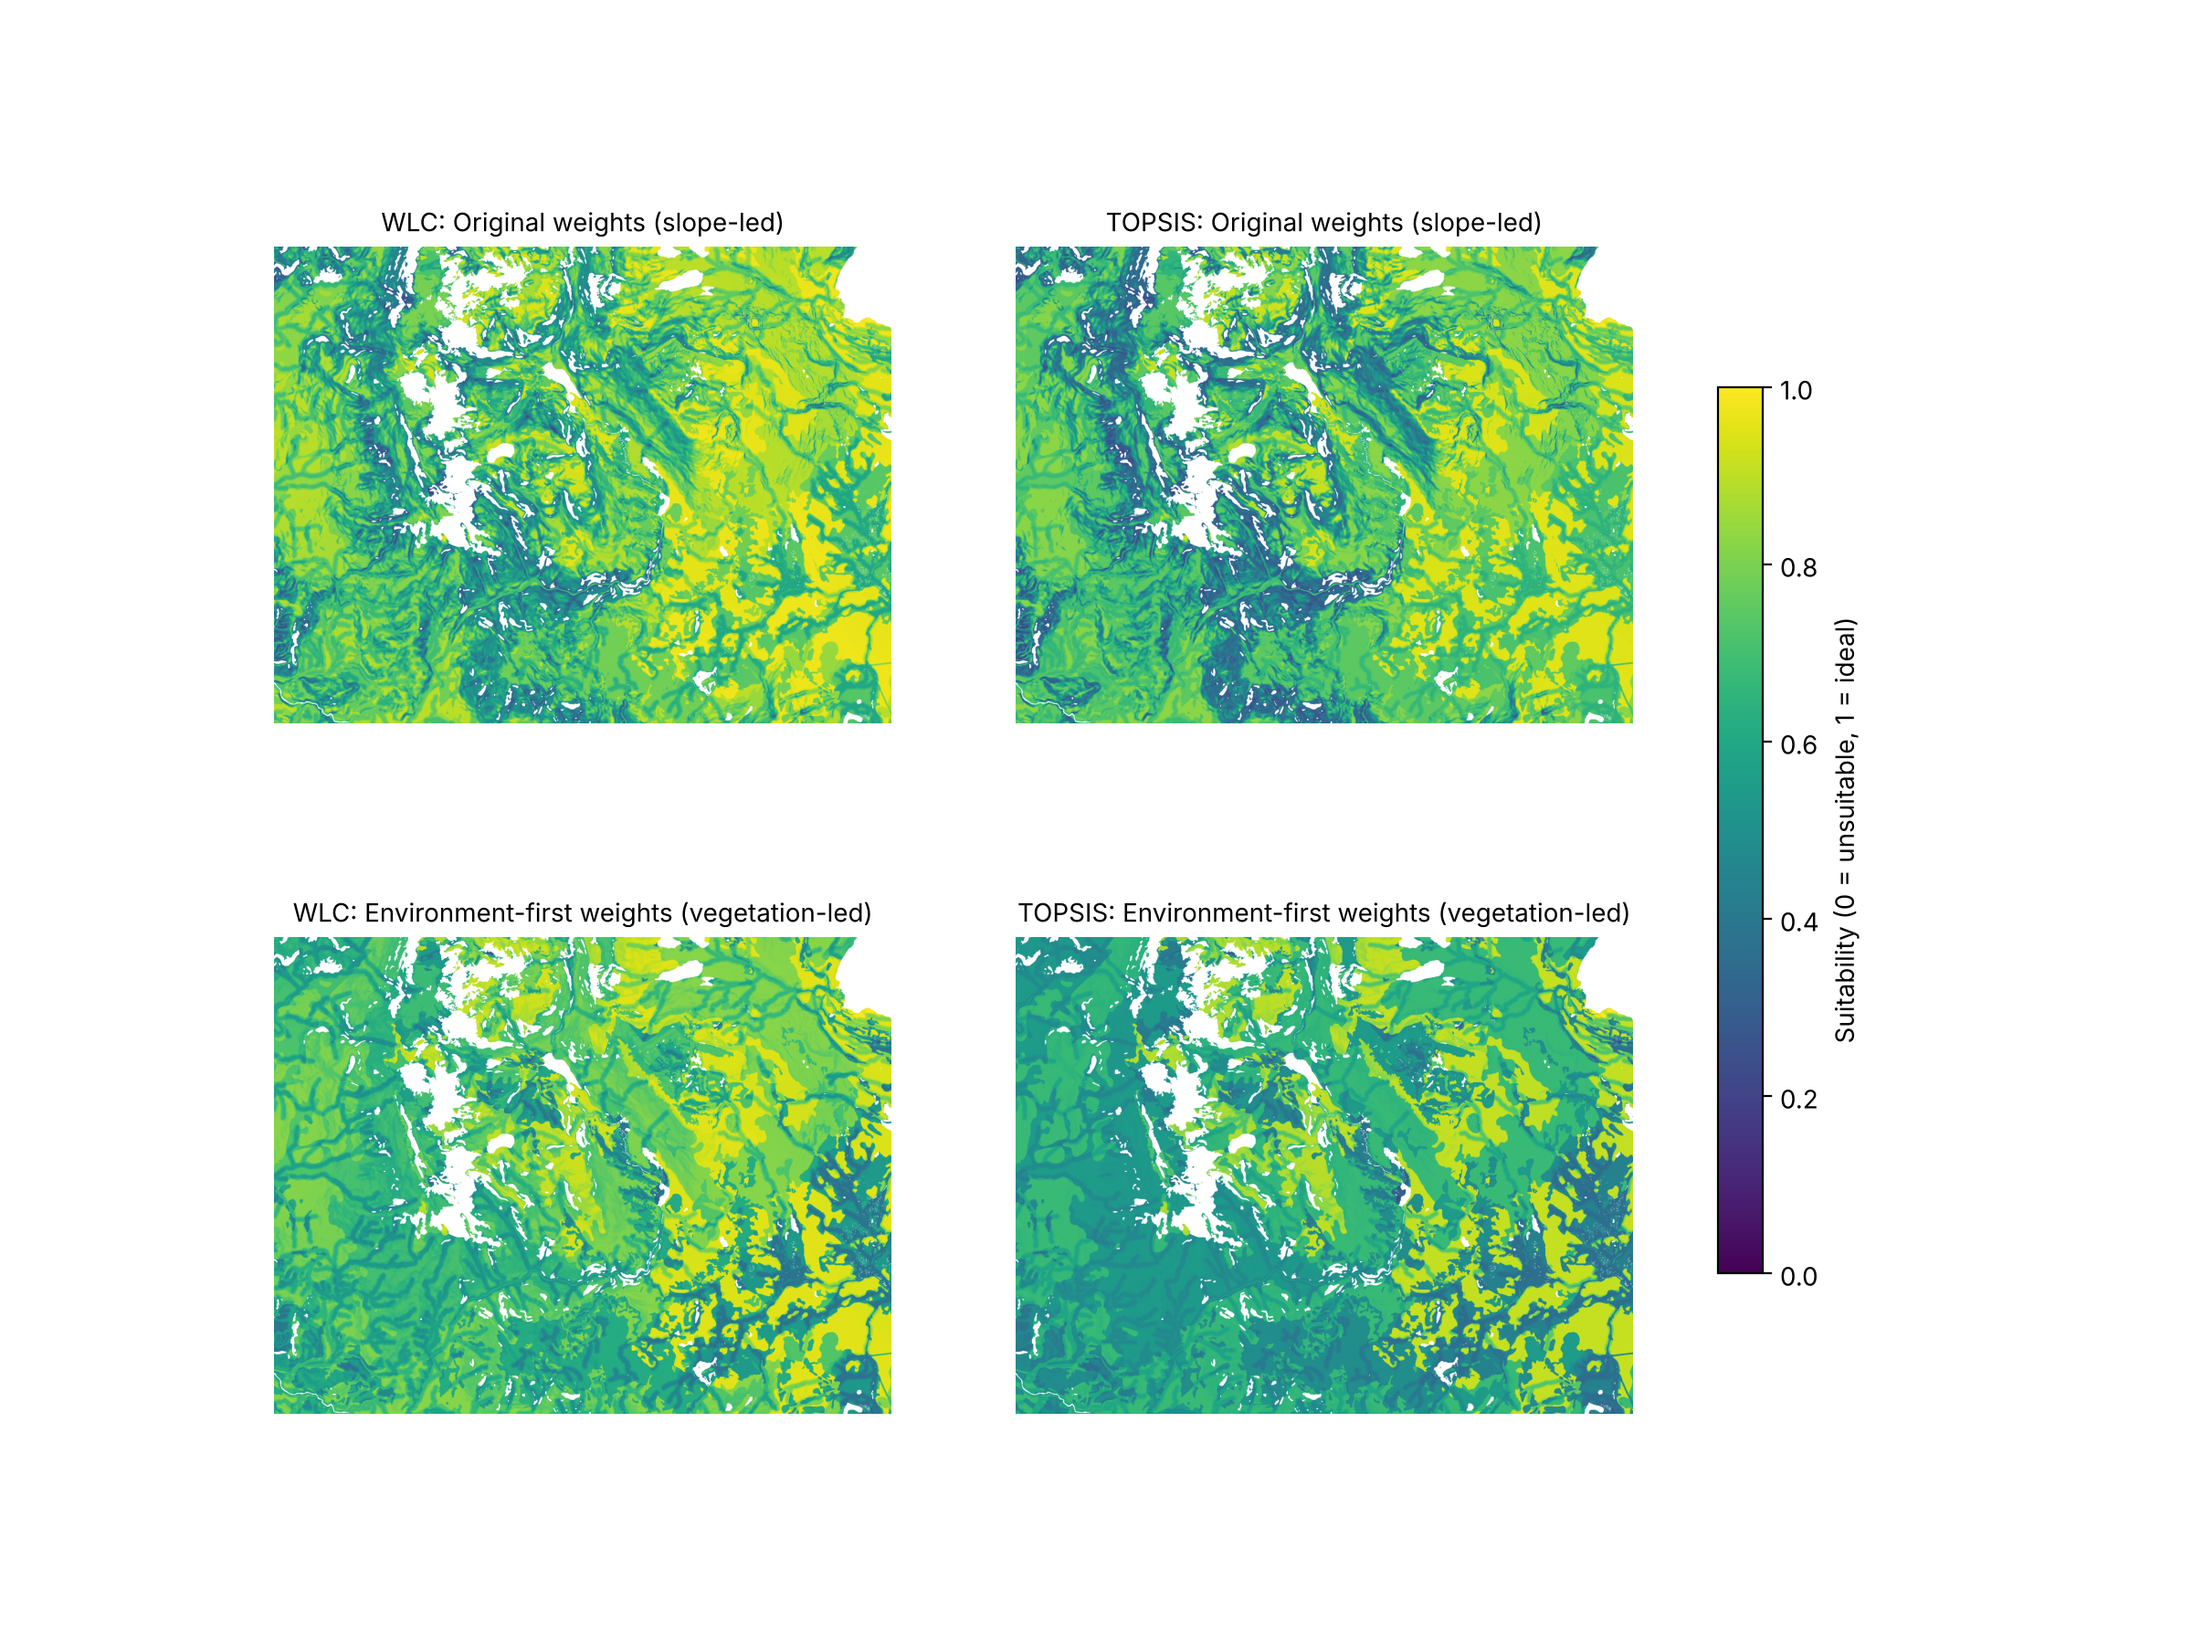
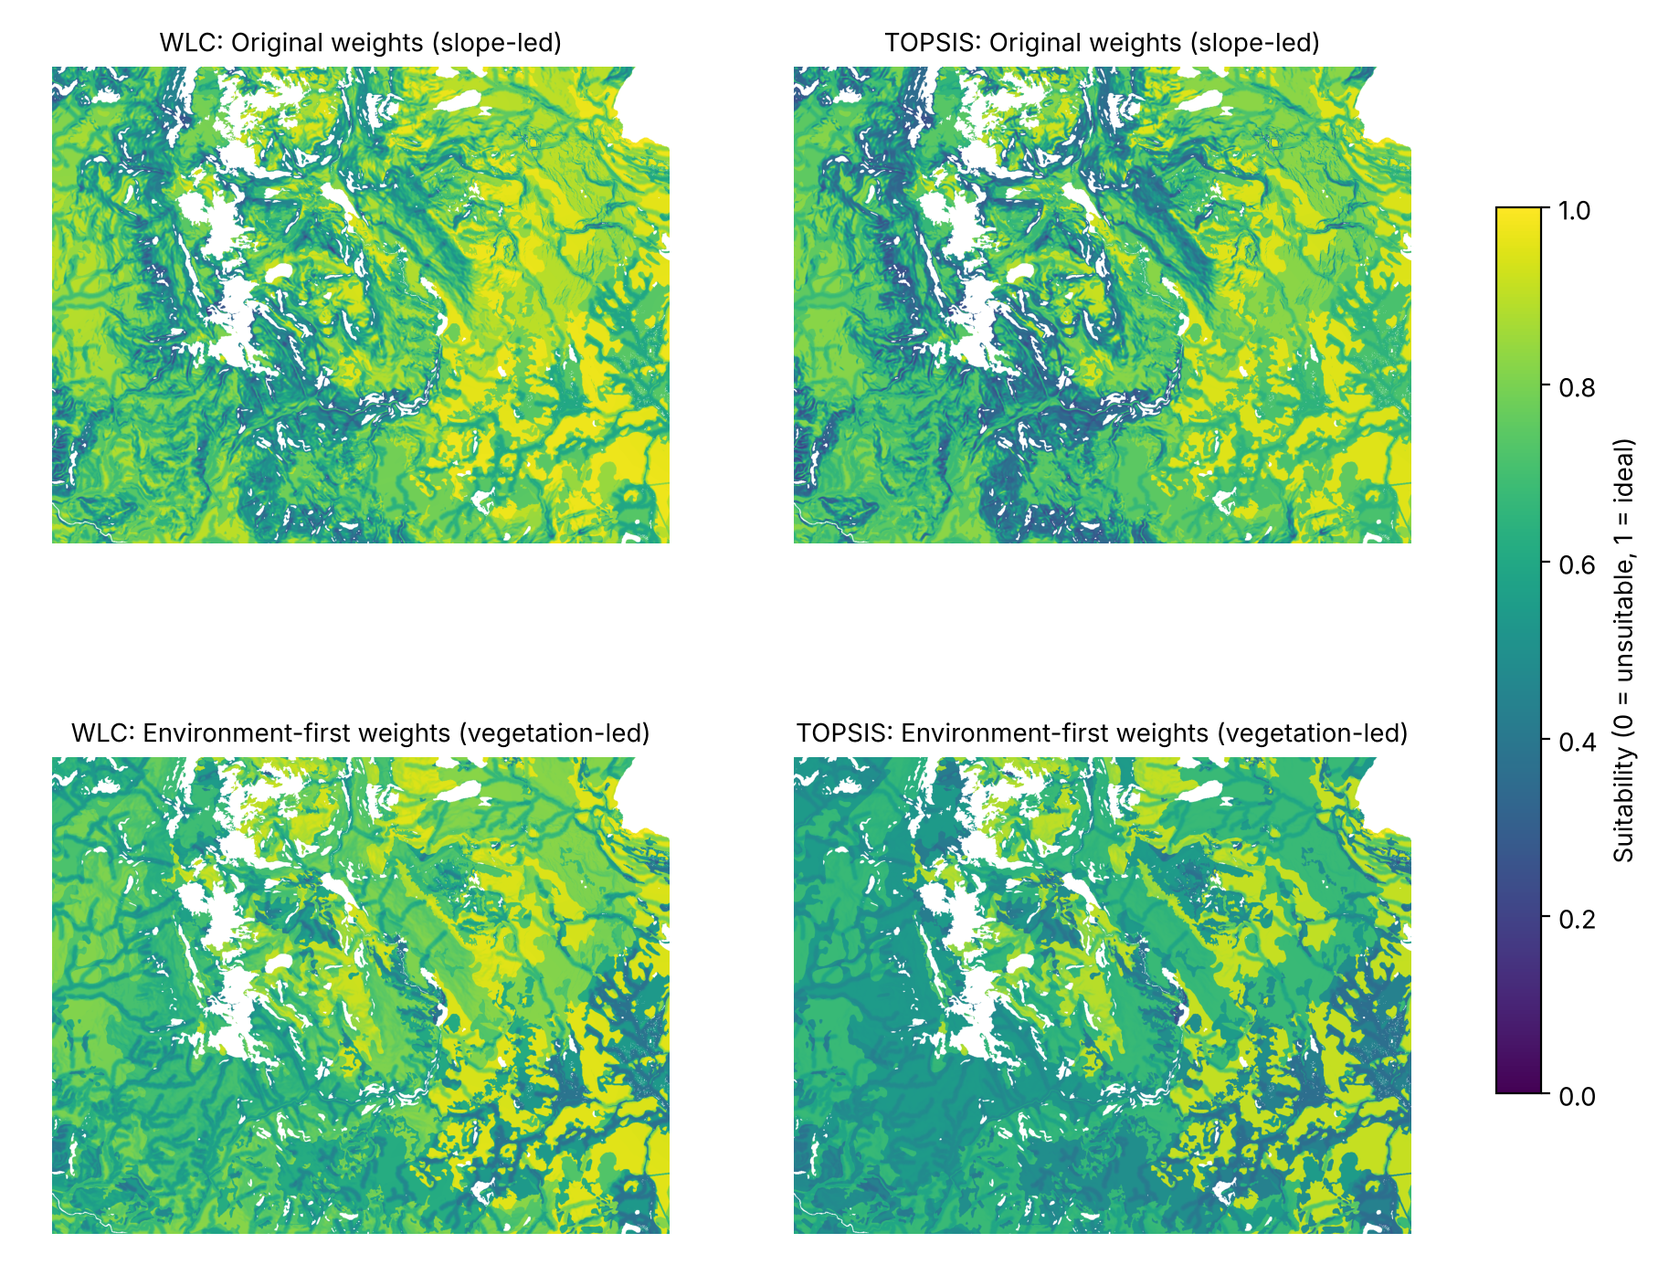
Jupyter Book UPDATE

diff --git a/results.md b/results.md
@@ -6,11 +6,14 @@
 
 *Figure 3: Suitability for a walking track under WLC (left) and TOPSIS (right). White areas are excluded by constraints.*
 
+There are some key differences when comparing the WLC and the TOPSIS suitability maps. The main one being that TOPSIS tends to make the suitability score lean towards 0. This is becuase if one cell has a bad score it pulls the whole cell down. This is not the case for WLC as one bad score can be made up if the other criteria are scored highly. 
+Overall both suitability maps follow the same trends and the difference in routes will be shown in the next section.
+
 ## Routes
 
 ![Topographic map of the Cheyne Range study area](map_with_table.png)
 
-*Figure 1: Topographic map with routes shaded by cost. Base map: LISTmap, © State of Tasmania (CC BY 3.0 AU).*
+*Figure 4: Topographic map with routes shaded by cost. Base map: LISTmap, © State of Tasmania (CC BY 3.0 AU).*
 
 ![Routes over the suitability surface](routes_suitability.png)
 
@@ -19,3 +22,24 @@
 ![Close-up of the routes near Mount Gell](routes_closeup.png)
 
 *Figure 6: Close-up of where the routes meet near Mount Gell, passing between excluded (white) areas.*
+
+To decide which route we would use for further testing it was due to the lowerest cost but also which route looks like the most interesting trail. When the start point is Rufus Canal Road, the route passes the Chimera, goes over the Hippogriff and passes the Australian Tarn before finishing on Mount Gell.
+This is where the subjective portion of trail modeling comes into play. Although there are routes that are cheaper coming from different start points, people would be much more inclined to hike a trail that passes through multiple points of interest. It also gives the oppurtunity for more people of all hiking levels to use the trail. Some may not want to hike all the way to the top of Mt Gell but would prefer to only go up the Hippogriff or the Tarn. This trail gives that oppurtunity to everyone and will be used in further comparisons. 
+
+![WLC route from Rufus Canal Rd to Mount Gell](wlc_route.png)
+
+*Figure 7: Least-cost route from Rufus Canal Rd (right) to Mount Gell (left) on the WLC suitability surface, shown over shaded relief with 50 m contours.*
+
+![TOPSIS route from Rufus Canal Rd to Mount Gell](topsis_route.png)
+
+*Figure 8: The same route on the TOPSIS suitability surface.*
+
+## Sensitivity analysis
+
+To test how much the suitability surfaces depend on the AHP weights, both models were re-run with a second, vegetation-led set of weights (vegetation 0.445, wetland 0.262, streams 0.152, slope 0.089, access 0.052; consistency ratio 0.006).
+
+![Suitability under the original and vegetation-led weights](suitability_scenarios.png)
+
+*Figure 9: WLC (left) and TOPSIS (right) suitability under the original slope-led weights (top) and the vegetation-led weights (bottom). White areas are excluded by constraints.*
+
+This darastically changes how the suitabilty raster looks and will perform. The vegetation led weighting prioitizes the fragile alpine vegetation and causes the route to tend towards steeper ground. 

diff --git a/methods.md b/methods.md
@@ -22,10 +22,7 @@ All datasets were clipped to a 17.5 × 13.5 km study area (the start, end and su
 Threatened vegetation communities were identified by matching TASVEG 5.0 communities against Schedule 3A of the *Nature Conservation Act 2002* (Tas).
 
 **Data limitations:**
-- Approximately 65% of the statewide DEM is derived from LiDAR. The remainder is interpolated from photogrammetric contours and spot heights, with an effective resolution of 10 m
 - TASVEG and threatened community mapping are indicative only and would require field verification.
-
-LIST data © State of Tasmania, licensed under Creative Commons Attribution 3.0 Australia.
 
 ## Workflow overview
 The analysis was written in Python, with each step saved as a raster on a common 10 m grid so the next step can read it. The scripts and notebooks are in the GitHub repository.
